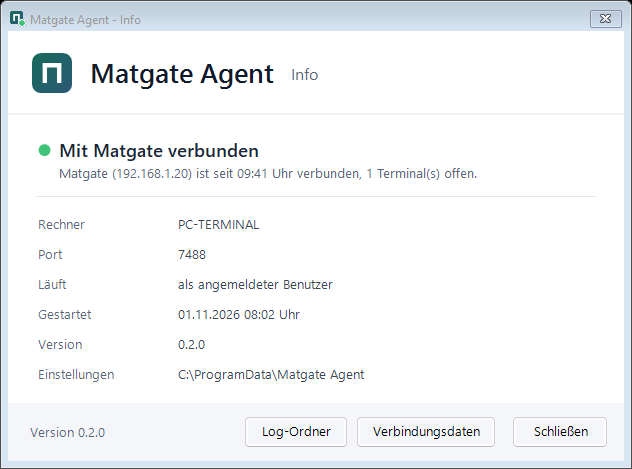
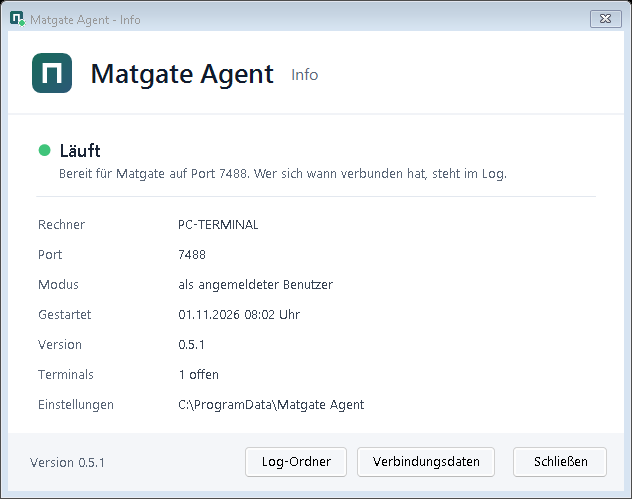
Der Tray des Agents zeigt nicht mehr "Mit Matgate verbunden".
Matgate haelt seine Verbindung zum Agent auch im Leerlauf offen (Uebersicht,
Dateien, stuendliche Update-Pruefung), die Anzeige sagte deshalb nichts aus.
Der Tray zeigt jetzt nur noch "Laeuft" mit Port und der Zahl offener
Terminals (wichtig vor "Agent neu starten"); wer sich wann verbunden hat,
steht weiter im Log. Agent 0.5.1.

diff --git a/tests/agent.js b/tests/agent.js
@@ -116,7 +116,7 @@ let agent;
   const hello = await status(server.id);
   check("with the right token the agent is online", hello.online, true);
   const tray = JSON.parse(execFileSync(AGENT_EXE, ["status", "--port", String(PORT)], { encoding: "utf8" }));
-  check("what the tray icon sees: the port, and Matgate connected", [tray.Port, tray.Connections >= 1], [PORT, true]);
+  check("what the tray icon sees: the port and the open terminals (not whether Matgate is connected)", [tray.Port, tray.Terminals, "Connections" in tray], [PORT, 0, false]);
   check("and says what it offers", (hello.plugins || []).map(p => p.kind + ":" + p.id), ["files:files", "terminal:cmd"]);
   check("and who it is", [hello.name, /Windows/i.test(hello.os || "")], [NAME, true]);
 

diff --git a/agent/Matgate.Agent/Ui/TrayApplication.cs b/agent/Matgate.Agent/Ui/TrayApplication.cs
@@ -15,8 +15,7 @@ internal sealed class TrayApplication : ApplicationContext
     private enum State
     {
         NotInstalled,
-        Ready,
-        Connected,
+        Running,
         Stopped,
     }
 
@@ -32,8 +31,7 @@ internal sealed class TrayApplication : ApplicationContext
     {
         _icons = Enum.GetValues<State>().ToDictionary(state => state, state => Mark.Create(state switch
         {
-            State.Connected => Brand.Ok,
-            State.Ready => Brand.Accent,
+            State.Running => Brand.Ok,
             State.Stopped => Brand.Error,
             _ => Brand.Neutral,
         }));
@@ -95,8 +93,7 @@ internal sealed class TrayApplication : ApplicationContext
         _status = AgentStatus.Query(Installer.FindExisting()?.Port ?? 7488);
         _state = _status switch
         {
-            { Connections: > 0 } => State.Connected,
-            not null => State.Ready,
+            not null => State.Running,
             null when File.Exists(Installer.InstalledExe) => State.Stopped,
             _ => State.NotInstalled,
         };
@@ -113,17 +110,16 @@ internal sealed class TrayApplication : ApplicationContext
 
     private Color Color() => _state switch
     {
-        State.Connected => Brand.Ok,
-        State.Ready => Brand.Accent,
+        State.Running => Brand.Ok,
         State.Stopped => Brand.Error,
         _ => Brand.Neutral,
     };
 
     private (string Title, string Detail) Describe() => _state switch
     {
-        State.Connected => ("Mit Matgate verbunden",
-            $"Matgate ({_status!.LastRemote}) ist seit {_status.LastConnected:HH:mm} Uhr verbunden" + (_status.Terminals > 0 ? $", {_status.Terminals} Terminal(s) offen." : ".")),
-        State.Ready => ("Bereit", $"Wartet auf Port {_status!.Port} auf Matgate." + (_status.LastConnected is { } last ? $" Zuletzt verbunden {last:dd.MM. HH:mm} Uhr." : "")),
+        // Whether Matgate is connected right now is left out on purpose: Matgate keeps its connection open
+        // while idle, so "connected" said nothing. Who connected when is in the log.
+        State.Running => ("Läuft", $"Bereit für Matgate auf Port {_status!.Port}. Wer sich wann verbunden hat, steht im Log."),
         State.Stopped => ("Agent läuft nicht", "Installiert, antwortet aber nicht. \"Agent neu starten\" im Menü, oder das Log ansehen."),
         _ => ("Nicht eingerichtet", "Das Setup richtet den Agent ein: matgate-agent.exe doppelklicken."),
     };
@@ -139,13 +135,15 @@ internal sealed class TrayApplication : ApplicationContext
 
         if (installed is not null)
         {
-            rows.Add(new("Läuft", installed.Mode == "service" ? $"als Dienst ({installed.Account})" : "als angemeldeter Benutzer"));
+            rows.Add(new("Modus", installed.Mode == "service" ? $"als Dienst ({installed.Account})" : "als angemeldeter Benutzer"));
         }
 
         if (_status is not null)
         {
             rows.Add(new("Gestartet", $"{_status.Started:dd.MM.yyyy HH:mm} Uhr"));
             rows.Add(new("Version", _status.Version));
+            // Worth knowing before "Agent neu starten" - a restart ends them.
+            rows.Add(new("Terminals", _status.Terminals == 0 ? "keine offen" : $"{_status.Terminals} offen"));
         }
 
         rows.Add(new("Einstellungen", Installer.DataFolder));

diff --git a/agent/Matgate.Agent/AgentStatus.cs b/agent/Matgate.Agent/AgentStatus.cs
@@ -6,17 +6,13 @@ using System.Text.Json;
 
 namespace Matgate.Agent;
 
-// What the tray icon shows: whether the agent runs, on which port, whether Matgate is connected and how
-// many terminals are open. Handed out over a local named pipe, like MatMon's agent - the tray runs in the
+// What the tray icon shows: whether the agent runs, on which port and how many terminals are open. Whether
+// Matgate is connected says little (Matgate keeps its connection open while idle) - that is in the log. Handed out over a local named pipe, like MatMon's agent - the tray runs in the
 // user's session, the agent may run as a service in session 0. The pipe carries no secret.
 public static class AgentStatus
 {
     // One pipe per port: two agents on one machine (an installed one and a test) do not answer for each other.
     public static string PipeName(int port) => "MatgateAgentStatus-" + port;
-
-    private static int _connections;
-    private static string _lastRemote = "";
-    private static DateTimeOffset? _lastConnected;
 
     public static int Port { get; set; }
 
@@ -24,22 +20,13 @@ public static class AgentStatus
 
     public static Func<int> OpenTerminals { get; set; } = () => 0;
 
-    public static void Connected(string remote)
-    {
-        Interlocked.Increment(ref _connections);
-        _lastRemote = remote;
-        _lastConnected = DateTimeOffset.Now;
-    }
-
-    public static void Disconnected() => Interlocked.Decrement(ref _connections);
-
-    public sealed record Snapshot(string Version, int Port, string Mode, int Connections, string LastRemote, DateTimeOffset? LastConnected, int Terminals, DateTimeOffset Started);
+    public sealed record Snapshot(string Version, int Port, string Mode, int Terminals, DateTimeOffset Started);
 
     private static readonly DateTimeOffset Started = DateTimeOffset.Now;
 
     public static Snapshot Current() => new(
         typeof(AgentStatus).Assembly.GetName().Version?.ToString() ?? "0",
-        Port, Mode, Volatile.Read(ref _connections), _lastRemote, _lastConnected, OpenTerminals(), Started);
+        Port, Mode, OpenTerminals(), Started);
 
     public static void StartServer(CancellationToken stopping)
     {

diff --git a/agent/Matgate.Agent/Setup/SetupPreview.cs b/agent/Matgate.Agent/Setup/SetupPreview.cs
@@ -22,8 +22,8 @@ internal static class SetupPreview
         Draw(uninstall, Path.Combine(folder, "uninstall-confirm.png"), () => { });
 
         var info = new InfoWindow(() => { }, () => { });
-        Draw(info, Path.Combine(folder, "tray-info.png"), () => info.Show(Brand.Ok, ("Mit Matgate verbunden", "Matgate (192.168.1.20) ist seit 09:41 Uhr verbunden, 1 Terminal(s) offen."),
-            [new("Rechner", Environment.MachineName), new("Port", "7488"), new("Läuft", "als angemeldeter Benutzer"), new("Gestartet", "01.11.2026 08:02 Uhr"), new("Version", Brand.Version), new("Einstellungen", Installer.DataFolder)]));
+        Draw(info, Path.Combine(folder, "tray-info.png"), () => info.Show(Brand.Ok, ("Läuft", "Bereit für Matgate auf Port 7488. Wer sich wann verbunden hat, steht im Log."),
+            [new("Rechner", Environment.MachineName), new("Port", "7488"), new("Modus", "als angemeldeter Benutzer"), new("Gestartet", "01.11.2026 08:02 Uhr"), new("Version", Brand.Version), new("Terminals", "1 offen"), new("Einstellungen", Installer.DataFolder)]));
         Draw(ConnectionWindow.Preview(), Path.Combine(folder, "tray-connection.png"), () => { });
 
         using var icon = Mark.Create(Brand.Ok, 64);

diff --git a/agent/Matgate.Agent/Program.cs b/agent/Matgate.Agent/Program.cs
@@ -335,19 +335,11 @@ static async Task RunAgentAsync(string[] args, string version)
 
         using var socket = await context.WebSockets.AcceptWebSocketAsync();
         AgentLog.Write($"Matgate connected from {context.Connection.RemoteIpAddress}");
-        AgentStatus.Connected(context.Connection.RemoteIpAddress?.ToString() ?? "");
-        try
-        {
         await new Connection(socket, config, version, files, terminals, updates, () =>
         {
             // As a service a non-zero exit makes Windows restart it (failure actions); the updater does the rest.
             Environment.Exit(AgentStatus.Mode == "service" ? 1 : 0);
         }).RunAsync(context.RequestAborted);
-        }
-        finally
-        {
-            AgentStatus.Disconnected();
-        }
 
         AgentLog.Write("Matgate disconnected");
     });
